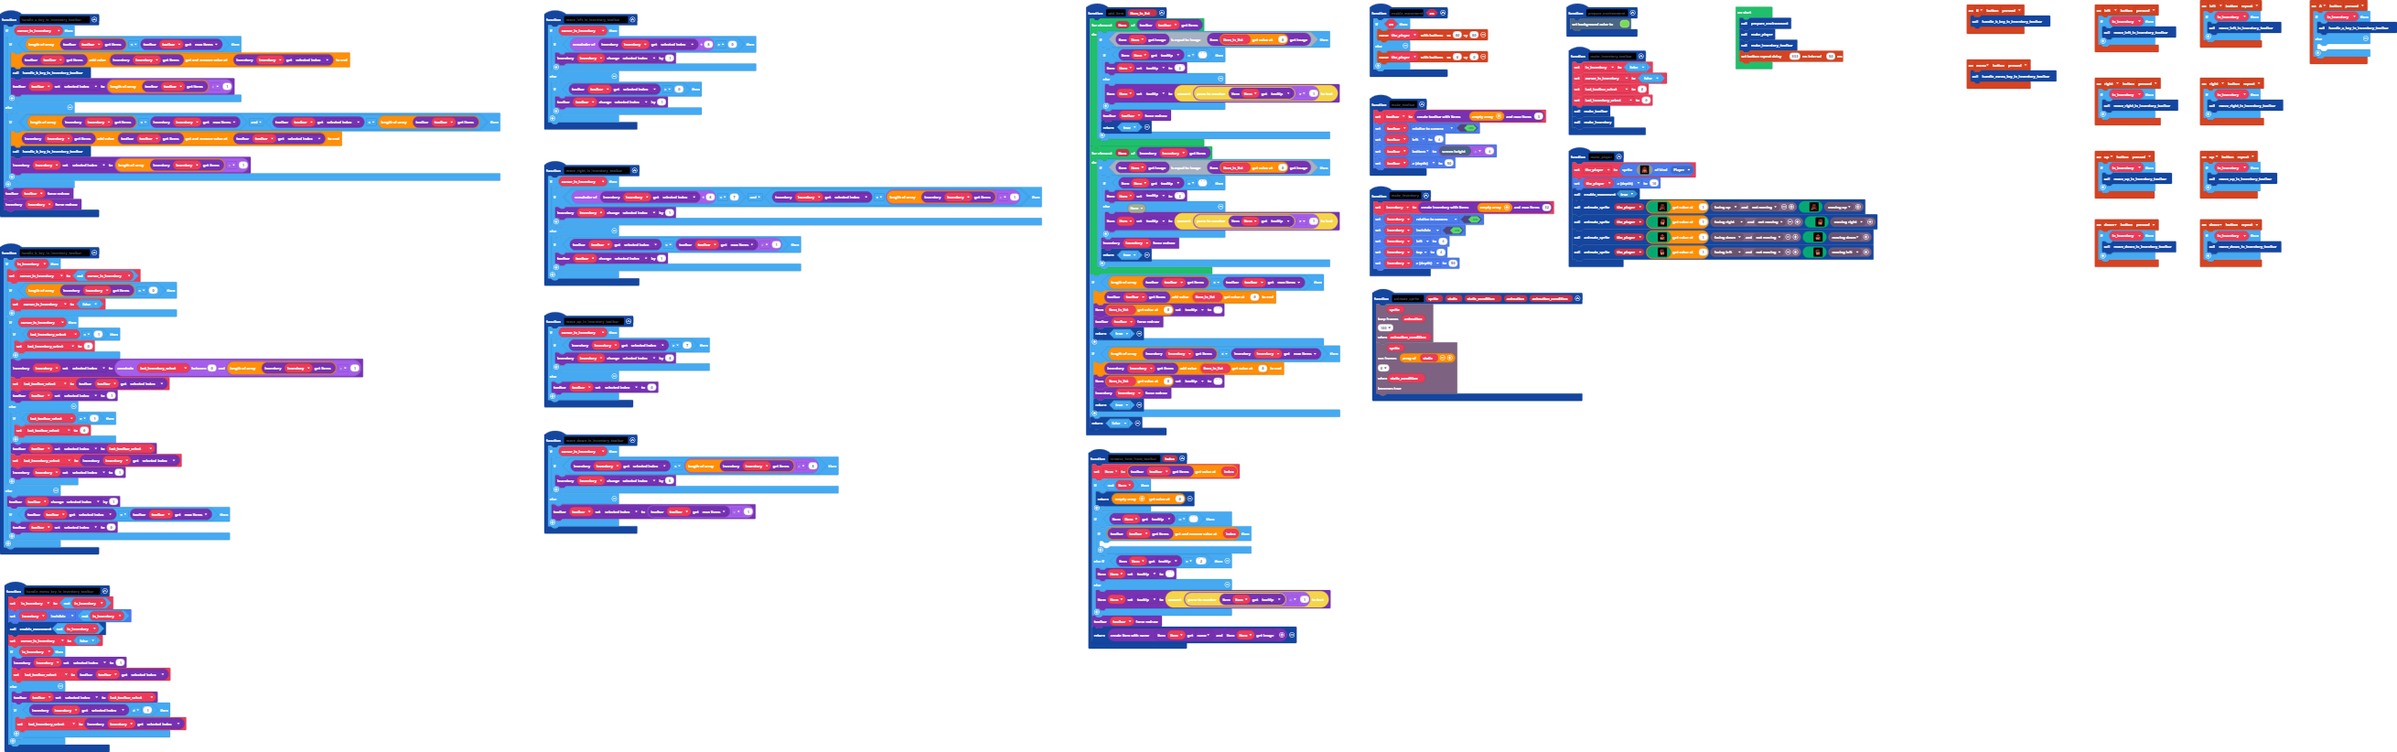
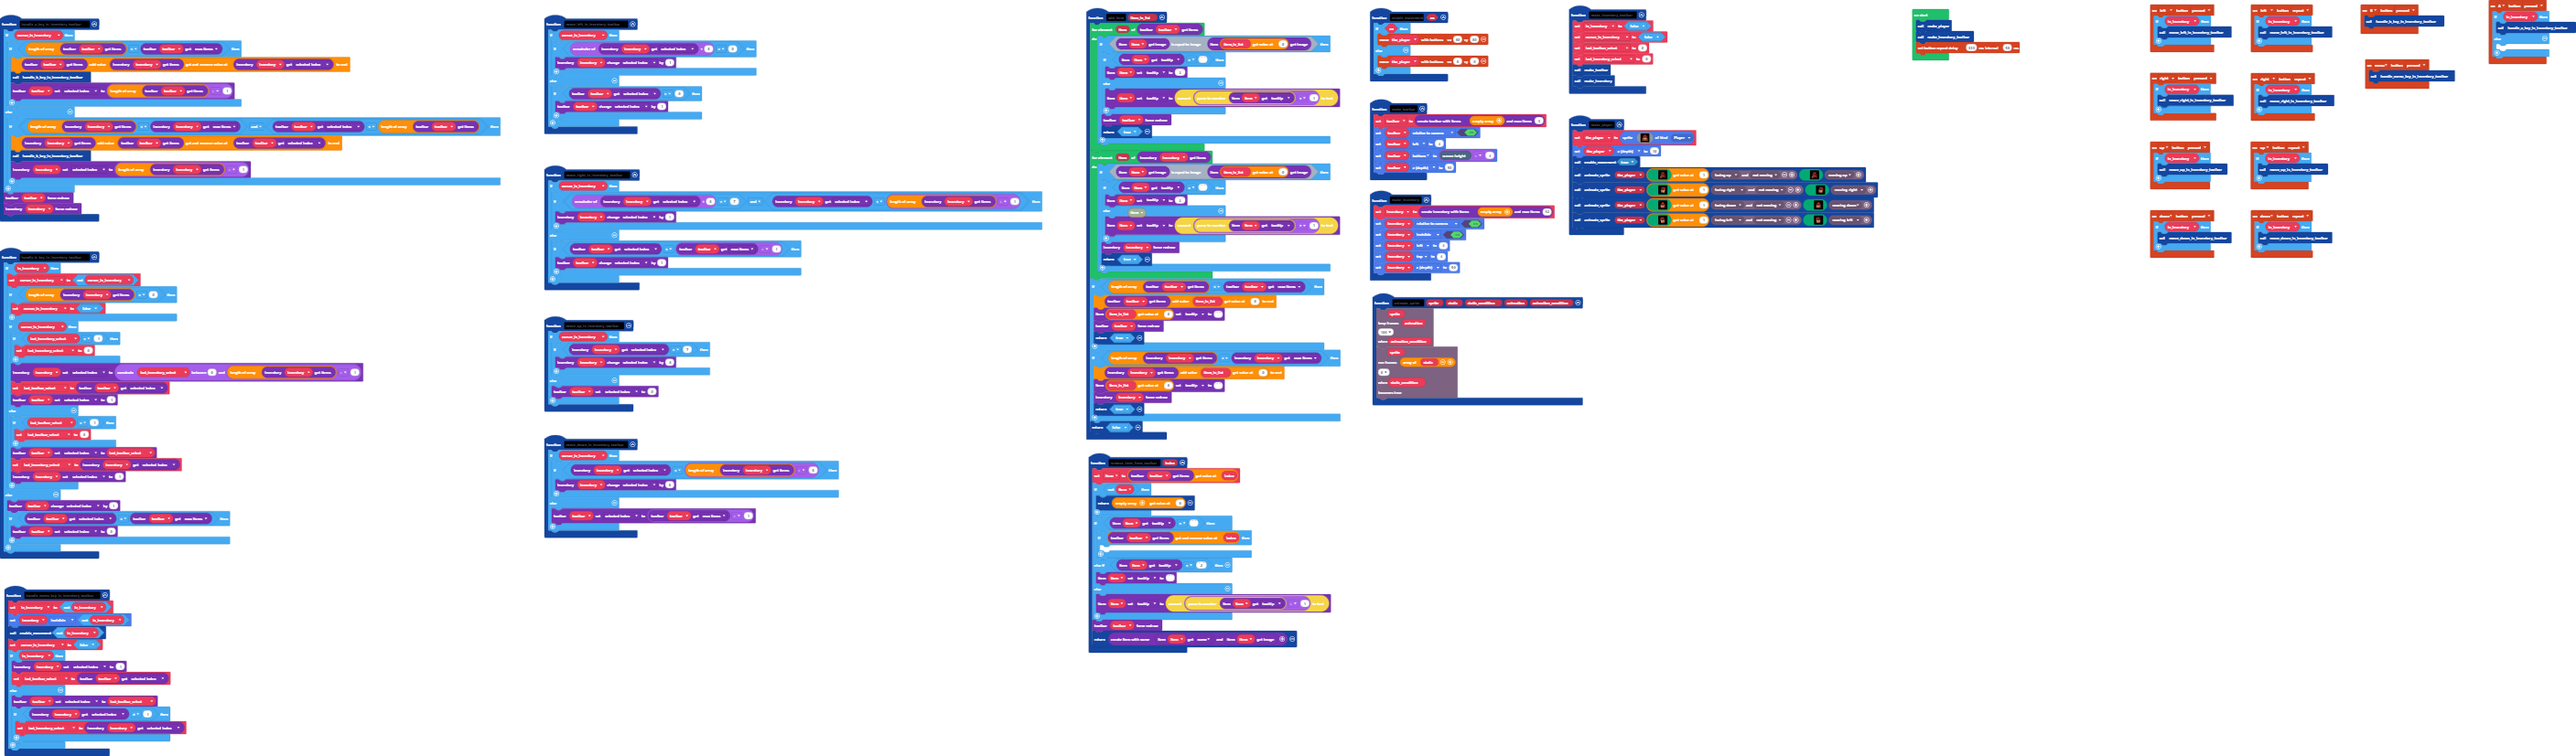
Move blocks around for space

Changed region(s): [[0.0, 0.0, 1.0, 0.882], [0.1855, 0.5779, 0.371, 0.7299], [0.0, 0.7603, 0.0927, 0.9732]]

diff --git a/main.ts b/main.ts
@@ -172,9 +172,6 @@ function make_toolbar () {
     toolbar.bottom = scene.screenHeight() - 4
     toolbar.z = 50
 }
-function prepare_environment () {
-    scene.setBackgroundColor(7)
-}
 function make_inventory_toolbar () {
     in_inventory = false
     cursor_in_inventory = false
@@ -269,7 +266,6 @@ let cursor_in_inventory = false
 let toolbar: Inventory.Toolbar = null
 let item: Inventory.Item = null
 let in_inventory = false
-prepare_environment()
 make_player()
 make_inventory_toolbar()
 controller.configureRepeatEventDefaults(333, 50)
